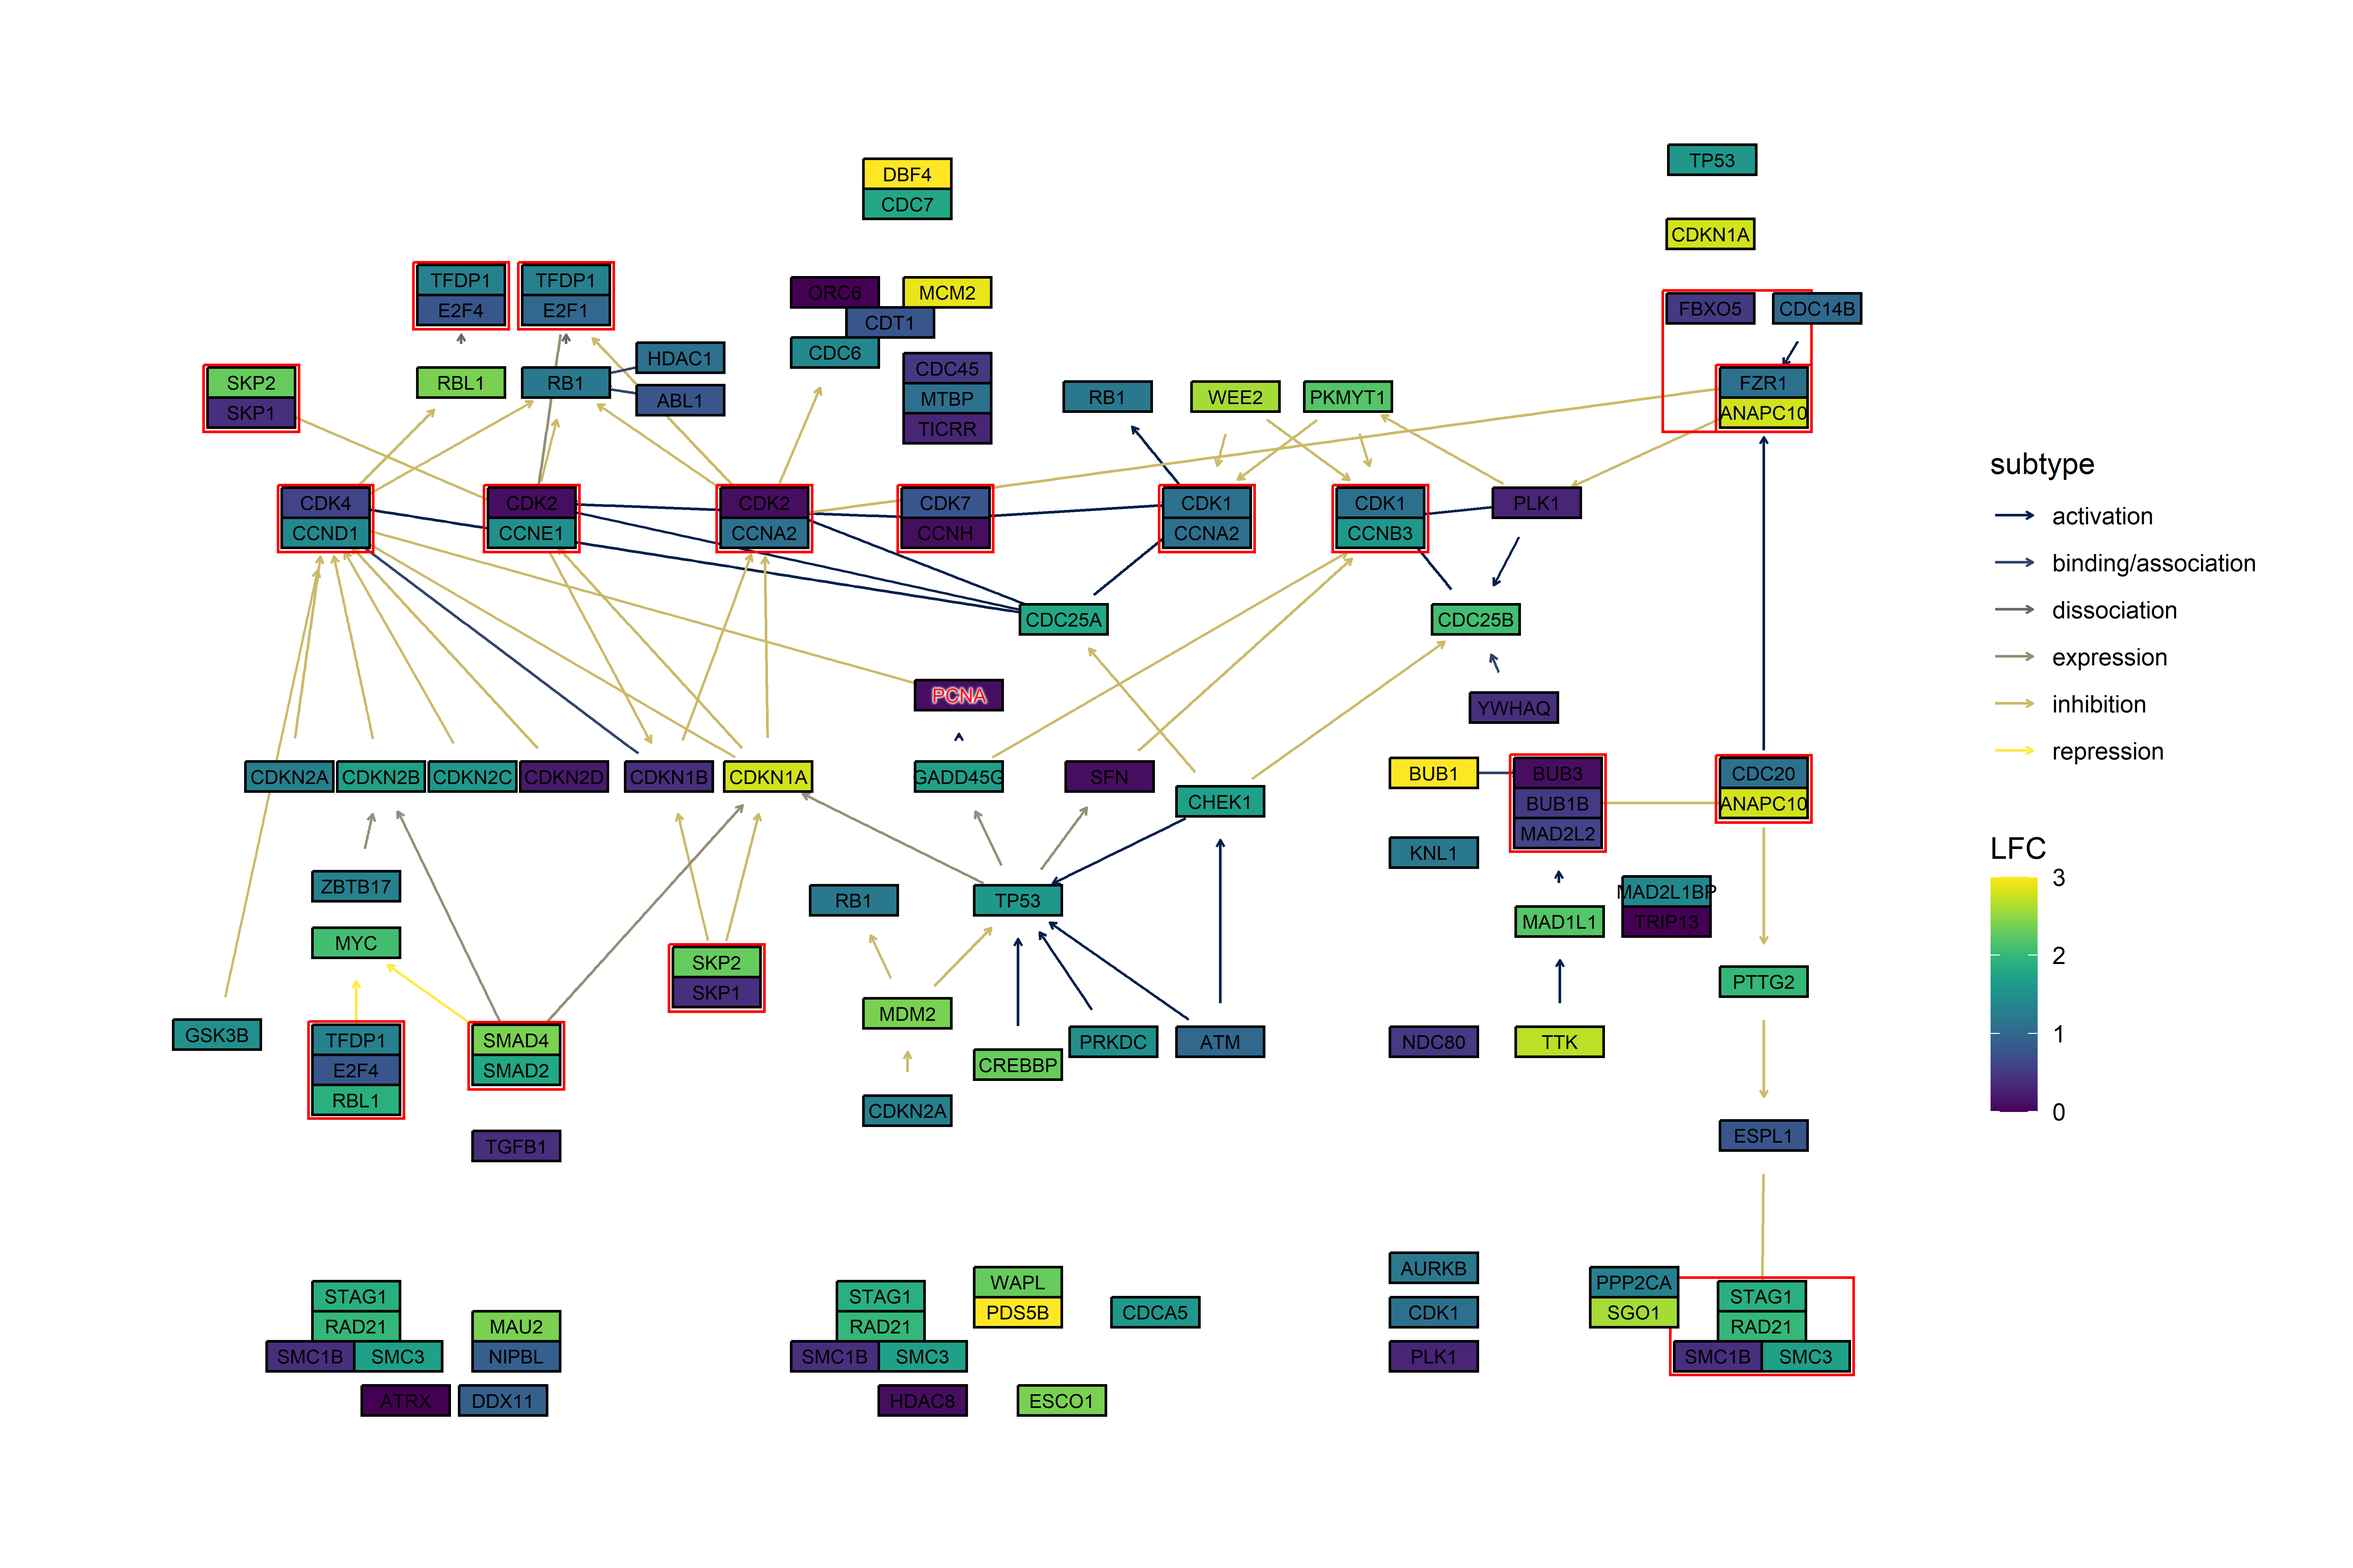
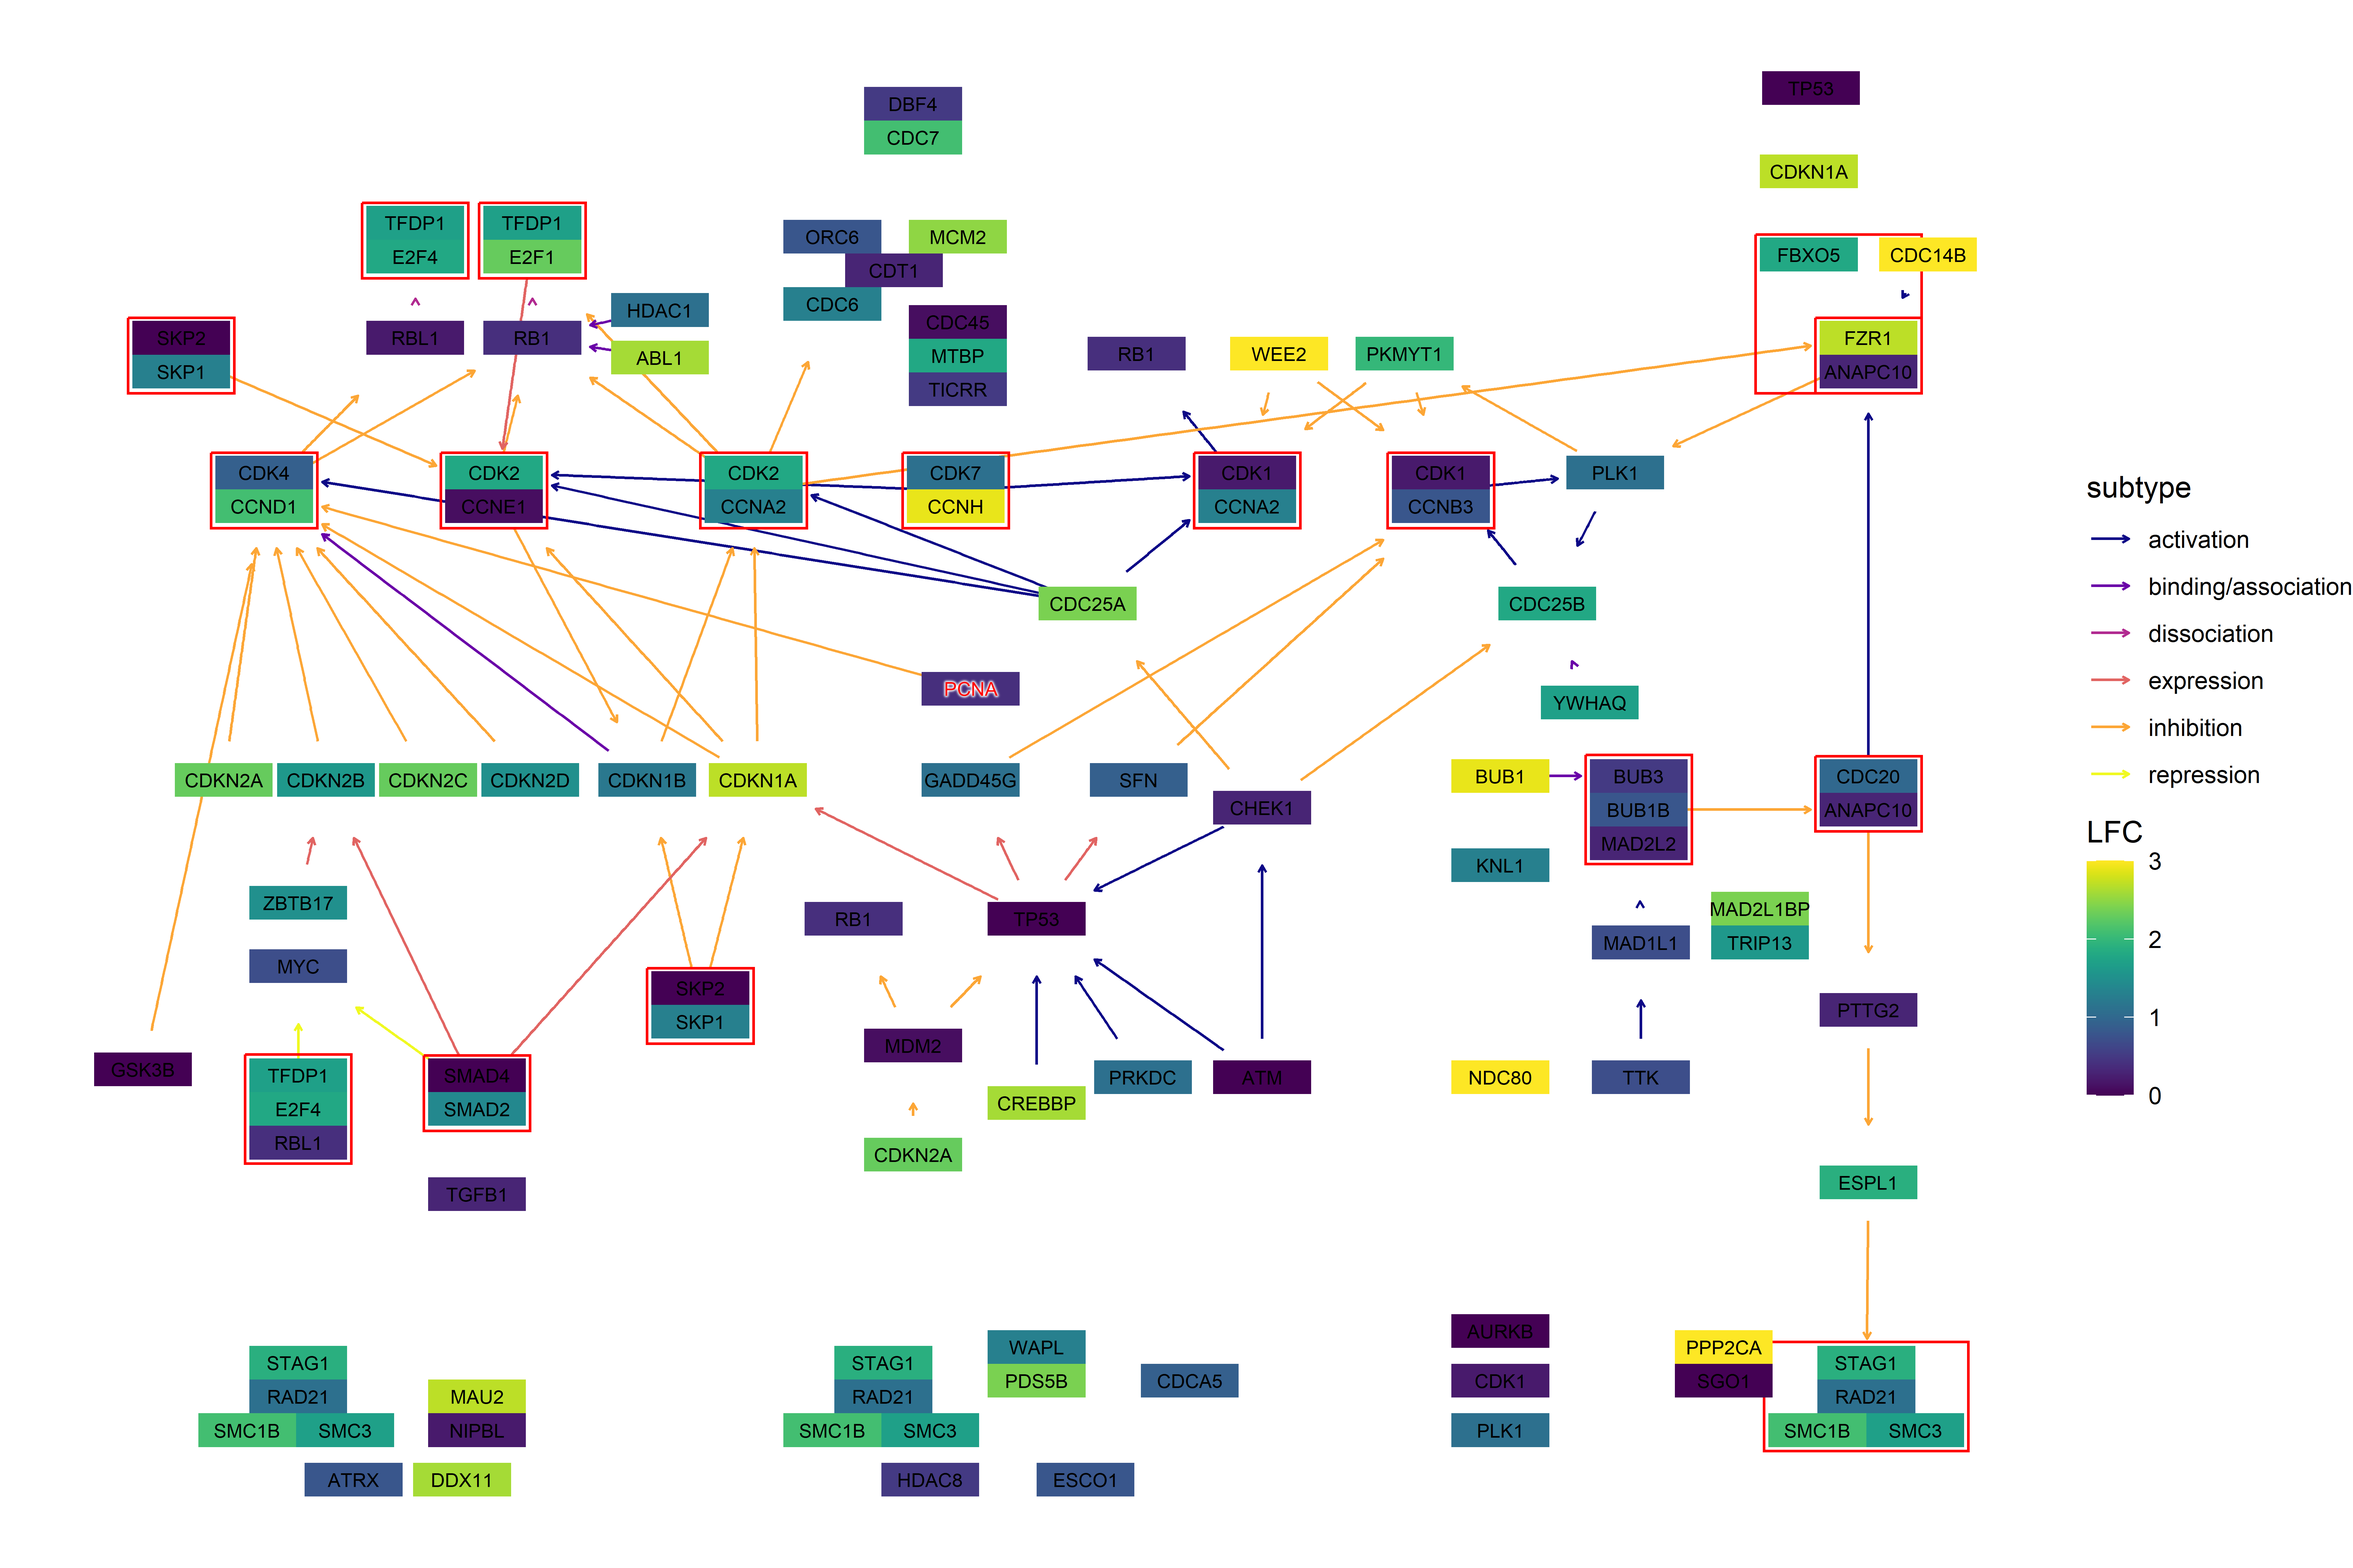
update functions

diff --git a/README.md b/README.md
@@ -19,23 +19,30 @@ g <- parse_kgml("hsa04110.xml")
 pseudo_lfc <- sample(seq(0,3,0.1), length(V(g)), replace=TRUE)
 names(pseudo_lfc) <- V(g)$name
 ggkegg("hsa04110",
-  convert_org = c("pathway","hsa","ko"),
-  numeric_attribute = pseudo_lfc)+
+       convert_org = c("pathway","hsa","ko"),
+       numeric_attribute = pseudo_lfc)+
   geom_edge_link(
     aes(color=subtype),
     arrow = arrow(length = unit(1, 'mm')), 
-    end_cap = circle(5, 'mm'),
-    start_cap = circle(5, "mm")) + 
-  geom_node_rect(type="gene", rect_fill="numeric_attribute")+
+    start_cap = square(1, 'cm'),
+    end_cap = square(1.5, 'cm')) + 
+  geom_node_rect(aes(filter=.data$undefined & !.data$type=="gene"),
+                 fill="transparent", color="red")+
+  geom_node_rect(aes(fill=numeric_attribute,
+                     filter=!.data$undefined &
+                            .data$type=="gene"))+
   geom_node_text(aes(label=converted_name,
-                     filter=type %in% c("gene")),size=2.5, color="black")+
+                     filter=.data$type == "gene"),
+                 size=2.5,
+                 color="black")+
   with_outer_glow(geom_node_text(aes(label=converted_name,
                                      filter=converted_name=="PCNA"),
-                                 size=2.5, color="red"), colour="white",expand=4)+
-  scale_edge_color_manual(values=viridis::cividis(6))+
+                                 size=2.5, color="red"),
+                  colour="white",
+                  expand=4)+
+  scale_edge_color_manual(values=viridis::plasma(6))+
   scale_fill_viridis(name="LFC")+
-  theme_graph()+
-  theme(plot.background = element_rect(fill = "transparent",colour = NA))
+  theme_void()
 ```
 
 <img src="man/figures/README-unnamed-chunk-2-1.png" width="3600" style="display: block; margin: auto;" />
